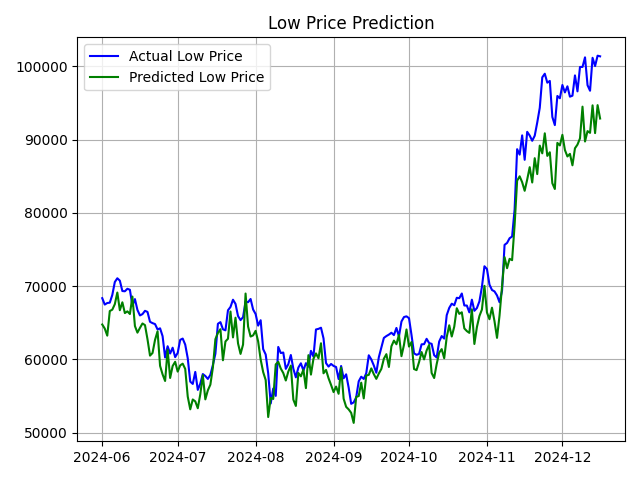
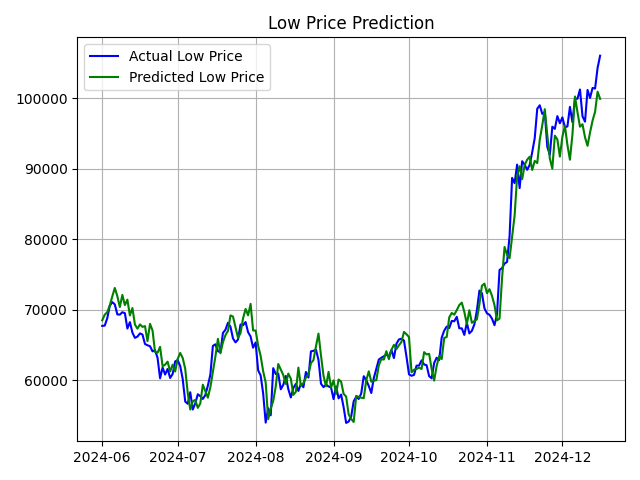
Add files via upload

diff --git a/main.py b/main.py
@@ -5,7 +5,8 @@ from keras import Sequential
 from keras.src.layers import LSTM, Dropout, Dense
 from sklearn.preprocessing import MinMaxScaler
 import tensorflow as tf
-from sklearn.metrics import mean_squared_error, mean_absolute_error, r2_score
+from sklearn.metrics import mean_squared_error, mean_absolute_error, r2_score, median_absolute_error, \
+    explained_variance_score
 import yfinance as yf
 import os
 from tqdm import tqdm
@@ -58,6 +59,7 @@ data.to_csv(f"{name}.csv")
 # data.to_csv("GC=F.csv")
 
 data=data[["Close","Open","High","Low"]]
+data=data[-1000:]
 # Initialize the scaler
 scaler = MinMaxScaler()
 # Fit and transform the DataFrame
@@ -70,13 +72,13 @@ data = pd.DataFrame(scaled_data, columns=data.columns, index=data.index)
 
 
 data["y_Close"]=data['Close']
-data["y_Close"]=data["y_Close"].shift()
+data["y_Close"]=data["y_Close"].shift(-1)
 data["y_Open"]=data['Open']
-data["y_Open"]=data["y_Open"].shift()
+data["y_Open"]=data["y_Open"].shift(-1)
 data["y_High"]=data['High']
-data["y_High"]=data["y_High"].shift()
+data["y_High"]=data["y_High"].shift(-1)
 data["y_Low"]=data['Low']
-data["y_Low"]=data["y_Low"].shift()
+data["y_Low"]=data["y_Low"].shift(-1)
 data.dropna(inplace=True)
 
 X=data[["Close","Open","High","Low"]]
@@ -88,6 +90,15 @@ data["p_Open"]= np.nan
 data["p_Close"]= np.nan
 
 
+data["o_p_Low"]= np.nan
+data["o_p_High"]= np.nan
+data["o_p_Open"]= np.nan
+data["o_p_Close"]= np.nan
+
+data["o_y_Low"]= np.nan
+data["o_y_High"]= np.nan
+data["o_y_Open"]= np.nan
+data["o_y_Close"]= np.nan
 
 
 
@@ -111,15 +122,16 @@ for i in tqdm(range(box-1)):
             model=build_LSTM_model(Xtrain, Y_train["y_"+c],Xval, Y_val["y_"+c])
 
         predictions = model.predict(Xtest, verbose=0)
+        data.loc[data.index[i - box + 1], 'p_'+c]=predictions[0][0]
         predictions=np.tile(predictions, 4).reshape(1, 4)
         predictions = scaler.inverse_transform(predictions)
-        data.loc[data.index[i - box + 1], 'p_'+c] = predictions[0][0]
+        data.loc[data.index[i - box + 1], 'o_p_'+c] = predictions[0][0]
         target = scaler.inverse_transform(Y_test)
-        data.loc[data.index[i - box + 1], 'y_'+c] = target[0][0]
+        data.loc[data.index[i - box + 1], 'o_y_'+c] = target[0][0]
 
 
 # Calculate Accuracy (for classification)
-df= data[['y_Open','p_Open','y_Close','p_Close','y_High','p_High','y_Low','p_Low']]
+df= data[['y_Open','p_Open','y_Close','p_Close','y_High','p_High','y_Low','p_Low','o_y_Open','o_p_Open','o_y_Close','o_p_Close','o_y_High','o_p_High','o_y_Low','o_p_Low']]
 df.dropna(inplace=True)
 df.to_csv(f"Predict_{name}.csv")
 
@@ -134,15 +146,22 @@ for c in ['Open','High','Low','Close']:
 
     # R-squared (R2)
     r2 = r2_score(df['y_' + c], df['p_' + c])
+    # Median Absolute Error
+    medae = median_absolute_error(df['y_' + c], df['p_' + c])
+
+    #Explained Variance Score
+    evs = explained_variance_score(df['y_' + c], df['p_' + c])
 
     text_write(f"Mean Squared Error({c}): {mse}")
     text_write(f"Mean Absolute Error({c}): {mae}")
     text_write(f"R-squared({c}): {r2}")
+    text_write(f"Median Absolute Error({c}): {medae}")
+    text_write(f"Explained Variance Score({c}): {evs}")
     fig, axes = plt.subplots()
 
     # Open price plot
-    plt.plot(df.index, df['y_'+c], label='Actual '+c+' Price', color='blue')
-    plt.plot(df['p_'+c], label='Predicted '+c+' Price', color='green')
+    plt.plot(df.index, df['o_y_'+c], label='Actual '+c+' Price', color='blue')
+    plt.plot(df['o_p_'+c], label='Predicted '+c+' Price', color='green')
     plt.title(f'{c} Price Prediction')
     plt.legend()
     plt.grid()
